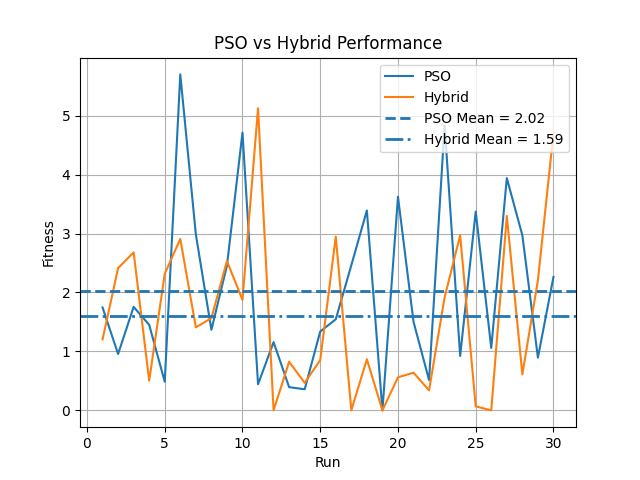
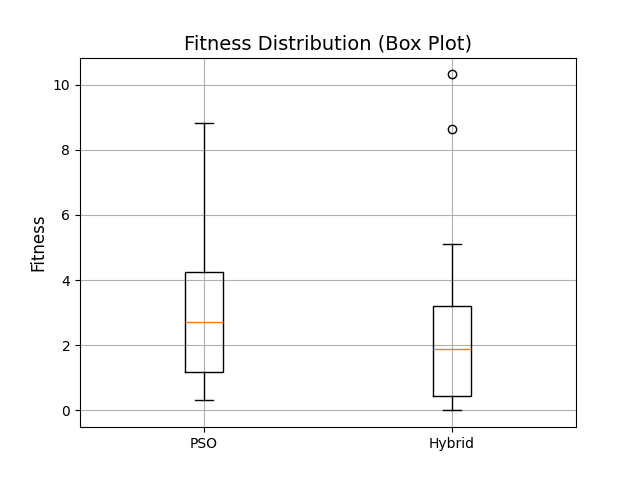
my local changes

diff --git a/experiments/run_30.py b/experiments/run_30.py
@@ -1,31 +1,96 @@
 import numpy as np
+import random
+import time
 from algorithms.pso import run_pso
 from algorithms.hybrid import run_hybrid
 
-
 def run_experiments():
+    start_total_time = time.time()
+    
+    print("\n" + "="*50)
+    print("         PHASE 1: PSO vs HYBRID")
+    print("="*50)
 
     pso_results = []
     hybrid_results = []
 
     for i in range(30):
-        print(f"\nRun {i+1}")
+        run_start_time = time.time()
+        random.seed(i)
+        np.random.seed(i)
+
+        print(f"[Run {i+1}/30] ", end="")
 
         _, pso_fit = run_pso()
-        _, hybrid_fit = run_hybrid()
+        _, hybrid_fit = run_hybrid(mutation_type=1, crossover_type=1)
 
         pso_results.append(pso_fit)
         hybrid_results.append(hybrid_fit)
 
-    print("\n===== RESULTS =====")
+        print(f"PSO={pso_fit:.2f} | Hybrid={hybrid_fit:.2f} | {time.time()-run_start_time:.1f}s")
 
-    print("\nPSO:")
-    print("Mean:", np.mean(pso_results))
-    print("Std:", np.std(pso_results))
+    print("\n" + "-"*40)
+    pso_mean = np.mean(pso_results)
+    hybrid_mean = np.mean(hybrid_results)
 
-    print("\nHybrid:")
-    print("Mean:", np.mean(hybrid_results))
-    print("Std:", np.std(hybrid_results))
+    print(f"PSO    => Mean: {pso_mean:.2f} | Std: {np.std(pso_results):.2f}")
+    print(f"Hybrid => Mean: {hybrid_mean:.2f} | Std: {np.std(hybrid_results):.2f}")
+
+  
+    if hybrid_mean < pso_mean:
+        print(">>> Hybrid is BETTER than PSO")
+    else:
+        print(">>> PSO is BETTER than Hybrid")
+
+    print("-"*40)
+
+    # =========================
+    # PHASE 2
+    # =========================
+    print("\n" + "="*50)
+    print("         PHASE 2: HYBRID VARIATIONS")
+    print("="*50)
+
+    all_results = []
+
+    for m in [1, 2]:
+        for c in [1, 2]:
+
+            results = []
+
+            print(f"\n[Testing M{m}, C{c}]")
+
+            for i in range(30):
+                random.seed(i)
+                np.random.seed(i)
+
+                _, fit = run_hybrid(mutation_type=m, crossover_type=c)
+                results.append(fit)
+
+            mean_val = np.mean(results)
+            std_val = np.std(results)
+
+            all_results.append((f"M{m}_C{c}", mean_val, std_val))
+
+            print(f"Result => Mean: {mean_val:.2f} | Std: {std_val:.2f}")
+
+   
+    print("\n" + "="*50)
+    print("         FINAL COMPARISON")
+    print("="*50)
+
+
+    all_results.sort(key=lambda x: x[1])
+
+    for name, mean, std in all_results:
+        print(f"{name:8} | Mean={mean:.2f} | Std={std:.2f}")
+
+    print("\n>>> BEST CONFIGURATION:", all_results[0][0])
+
+    total_time = (time.time() - start_total_time) / 60
+    print("\n" + "="*50)
+    print(f"TOTAL TIME: {total_time:.1f} minutes")
+    print("="*50)
 
 
 if __name__ == "__main__":

diff --git a/experiments/plot.py b/experiments/plot.py
@@ -8,7 +8,13 @@ def collect_results(runs=30):
     pso_results = []
     hybrid_results = []
 
-    for _ in range(runs):
+    for i in range(runs):
+        import random
+        import numpy as np
+
+        random.seed(i)
+        np.random.seed(i)
+
         _, pso_fit = run_pso()
         _, hybrid_fit = run_hybrid()
 
@@ -18,30 +24,64 @@ def collect_results(runs=30):
     return pso_results, hybrid_results
 
 
-
 def plot_results(pso, hybrid):
     x = np.arange(1, len(pso) + 1)
 
     pso_mean = np.mean(pso)
     hybrid_mean = np.mean(hybrid)
 
+    # =========================
+    # 1. Line Plot
+    # =========================
     plt.figure()
 
-    # main lines
-    plt.plot(x, pso, label="PSO")
-    plt.plot(x, hybrid, label="Hybrid")
+    plt.plot(x, pso, marker='o', linewidth=2, label="PSO")
+    plt.plot(x, hybrid, marker='s', linewidth=2, label="Hybrid")
 
-    # mean lines
     plt.axhline(pso_mean, linestyle='--', linewidth=2, label=f"PSO Mean = {pso_mean:.2f}")
     plt.axhline(hybrid_mean, linestyle='-.', linewidth=2, label=f"Hybrid Mean = {hybrid_mean:.2f}")
 
-    plt.xlabel("Run")
-    plt.ylabel("Fitness")
-    plt.title("PSO vs Hybrid Performance")
+    plt.xlabel("Run", fontsize=12)
+    plt.ylabel("Fitness", fontsize=12)
+    plt.title("PSO vs Hybrid (Line Plot)", fontsize=14)
 
-    plt.legend()
+    plt.legend(loc='upper right')
     plt.grid()
 
+    plt.savefig("line_plot.png", dpi=300)
+
+    # =========================
+    # 2. Box Plot
+    # =========================
+    plt.figure()
+
+    plt.boxplot([pso, hybrid], labels=["PSO", "Hybrid"])
+
+    plt.title("Fitness Distribution (Box Plot)", fontsize=14)
+    plt.ylabel("Fitness", fontsize=12)
+
+    plt.grid()
+
+    plt.savefig("box_plot.png", dpi=300)
+
+    # =========================
+    # 3. Bar Chart
+    # =========================
+    plt.figure()
+
+    labels = ["PSO", "Hybrid"]
+    means = [pso_mean, hybrid_mean]
+
+    plt.bar(labels, means)
+
+    plt.title("Mean Fitness Comparison", fontsize=14)
+    plt.ylabel("Mean Fitness", fontsize=12)
+
+    plt.grid(axis='y')
+
+    plt.savefig("bar_chart.png", dpi=300)
+
+ 
     plt.show()
 
 

diff --git a/algorithms/hybrid.py b/algorithms/hybrid.py
@@ -8,25 +8,27 @@ from simulation.traffic_simulation import TrafficSimulation
 from core.individual import Individual
 
 
-def run_hybrid():
+def run_hybrid(mutation_type=1, crossover_type=1):
 
+    # Run PSO first
     best_solution, best_fitness = run_pso()
     print("\nPSO Best:", best_solution, best_fitness)
 
     sim = TrafficSimulation(num_intersections=6)
     init = Initialization()
 
+    # Initialize population
     population = init.initialize_population(
         method="random",
         population_size=10,
         num_intersections=6
     )
 
-    # inject PSO solution into half the population
+    # Inject PSO solution into half population
     for i in range(5):
         population[i].genome = best_solution.copy()
 
-    # evaluate initial population
+    # Evaluate initial population
     for ind in population:
         calculate_fitness(ind, sim)
 
@@ -40,31 +42,51 @@ def run_hybrid():
 
         for _ in range(len(population)):
 
+            # Select parents
             p1 = selector.tournament_selection(population, k=3)
             p2 = selector.tournament_selection(population, k=3)
 
-            # crossover
-            child_genome = [
-                int((g1 + g2) / 2) for g1, g2 in zip(p1.genome, p2.genome)
-            ]
+            # -------- Crossover --------
+            if crossover_type == 1:
+                # Average crossover (original)
+                child_genome = [
+                    int((g1 + g2) / 2) for g1, g2 in zip(p1.genome, p2.genome)
+                ]
+            else:
+                # Random gene crossover
+                child_genome = [
+                    random.choice([g1, g2]) for g1, g2 in zip(p1.genome, p2.genome)
+                ]
 
-            # mutation
-            child_genome = [
-                max(10, min(60, g + random.randint(-3, 3)))
-                for g in child_genome
-            ]
+            # -------- Mutation --------
+            if mutation_type == 1:
+                # Small safe mutation
+                child_genome = [
+                    max(10, min(60, g + random.randint(-1, 1)))
+                    for g in child_genome
+                ]
+            else:
+                # Partial random reset (20% chance)
+                child_genome = [
+                    random.randint(10, 60) if random.random() < 0.2 else g
+                    for g in child_genome
+                ]
 
-            child = Individual(num_intersections=4, genome=child_genome)
+            # Create child (fix important bug هنا)
+            child = Individual(num_intersections=6, genome=child_genome)
 
+            # Evaluate child
             calculate_fitness(child, sim)
             new_population.append(child)
 
+        # Replacement (elitism)
         population = replacer.elitism_replacement(
             population,
             new_population,
             elite_size=2
         )
 
+    # Get best solution
     best = min(population, key=lambda x: x.fitness)
 
     print("\nHybrid Best:", best.genome, best.fitness)

diff --git a/experiments/baseline.py b/experiments/baseline.py
@@ -1,0 +1,47 @@
+import numpy as np
+import random
+
+from simulation.traffic_simulation import TrafficSimulation
+from algorithms.pso import run_pso
+from algorithms.hybrid import run_hybrid
+
+
+def run_baseline_experiment():
+
+    sim = TrafficSimulation(num_intersections=6)
+
+    baseline_results = []
+    hybrid_results = []
+
+    for i in range(30):
+        random.seed(i)
+        np.random.seed(i)
+
+        # -------- Baseline --------
+        baseline_timings = [30] * 6
+        avg_wait, congestion = sim.run(
+            baseline_timings,
+            steps=200,
+            arrival_rate=0.7,
+            seed=i
+        )
+        baseline_fitness = avg_wait + 1.5 * congestion
+        baseline_results.append(baseline_fitness)
+
+        # -------- Hybrid --------
+        _, hybrid_fit = run_hybrid()
+        hybrid_results.append(hybrid_fit)
+
+    print("\n===== BASELINE vs HYBRID =====")
+
+    print("\nBaseline:")
+    print("Mean:", np.mean(baseline_results))
+    print("Std:", np.std(baseline_results))
+
+    print("\nHybrid:")
+    print("Mean:", np.mean(hybrid_results))
+    print("Std:", np.std(hybrid_results))
+
+
+if __name__ == "__main__":
+    run_baseline_experiment()

diff --git a/algorithms/pso.py b/algorithms/pso.py
@@ -140,7 +140,7 @@ def run_pso():
         record = stats.compile(population)
         logbook.record(gen=generation, evals=len(population), **record)
 
-        print(logbook.stream)
+       # print(logbook.stream)
 
     best_matrix = gbest.reshape(num_intersections, phases_per_intersection)
 